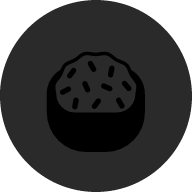
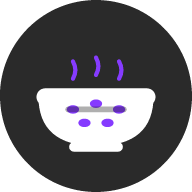
앱 아이콘 컬러 밥그릇으로 교체 (이모지 렌더링 → 직접 SVG 드로잉)

Changed region(s): [[0.1875, 0.25, 0.8125, 0.8125]]

diff --git a/dist/sw.js b/dist/sw.js
@@ -1,1 +1,1 @@
-if(!self.define){let e,i={};const n=(n,s)=>(n=new URL(n+".js",s).href,i[n]||new Promise(i=>{if("document"in self){const e=document.createElement("script");e.src=n,e.onload=i,document.head.appendChild(e)}else e=n,importScripts(n),i()}).then(()=>{let e=i[n];if(!e)throw new Error(`Module ${n} didn’t register its module`);return e}));self.define=(s,o)=>{const r=e||("document"in self?document.currentScript.src:"")||location.href;if(i[r])return;let c={};const d=e=>n(e,r),t={module:{uri:r},exports:c,require:d};i[r]=Promise.all(s.map(e=>t[e]||d(e))).then(e=>(o(...e),c))}}define(["./workbox-b51dd497"],function(e){"use strict";self.skipWaiting(),e.clientsClaim(),e.precacheAndRoute([{url:"registerSW.js",revision:"1872c500de691dce40960bb85481de07"},{url:"index.html",revision:"0a507d523330ee017b34ee645270d89d"},{url:"icons.svg",revision:"21c7473c592c67dc87223d49892c8f0a"},{url:"icon-512.png",revision:"1bbb7c726bf4a4f64a7d14fc8379c368"},{url:"icon-192.png",revision:"59e2622be535f53100d7d03103989f55"},{url:"favicon.svg",revision:"7e840862161341271697daa99a40d76b"},{url:"assets/index-lUIyWdLV.js",revision:null},{url:"assets/index-Co-6alOy.css",revision:null},{url:"favicon.svg",revision:"7e840862161341271697daa99a40d76b"},{url:"icon-192.png",revision:"59e2622be535f53100d7d03103989f55"},{url:"icon-512.png",revision:"1bbb7c726bf4a4f64a7d14fc8379c368"},{url:"manifest.webmanifest",revision:"2702644725b42623fc98ea071ec57bb0"}],{}),e.cleanupOutdatedCaches(),e.registerRoute(new e.NavigationRoute(e.createHandlerBoundToURL("index.html"))),e.registerRoute(/^https:\/\/openapi\.foodsafetykorea\.go\.kr\/.*/i,new e.NetworkFirst({cacheName:"cookrcp-api",plugins:[new e.ExpirationPlugin({maxAgeSeconds:86400})]}),"GET")});
+if(!self.define){let e,i={};const n=(n,s)=>(n=new URL(n+".js",s).href,i[n]||new Promise(i=>{if("document"in self){const e=document.createElement("script");e.src=n,e.onload=i,document.head.appendChild(e)}else e=n,importScripts(n),i()}).then(()=>{let e=i[n];if(!e)throw new Error(`Module ${n} didn’t register its module`);return e}));self.define=(s,o)=>{const r=e||("document"in self?document.currentScript.src:"")||location.href;if(i[r])return;let c={};const d=e=>n(e,r),t={module:{uri:r},exports:c,require:d};i[r]=Promise.all(s.map(e=>t[e]||d(e))).then(e=>(o(...e),c))}}define(["./workbox-b51dd497"],function(e){"use strict";self.skipWaiting(),e.clientsClaim(),e.precacheAndRoute([{url:"registerSW.js",revision:"1872c500de691dce40960bb85481de07"},{url:"index.html",revision:"0a507d523330ee017b34ee645270d89d"},{url:"icons.svg",revision:"21c7473c592c67dc87223d49892c8f0a"},{url:"icon-512.png",revision:"a832469ca6567c71ade0e8d7f1bbaf9a"},{url:"icon-192.png",revision:"07082d88ce2e52652d206d5057c053be"},{url:"favicon.svg",revision:"7e840862161341271697daa99a40d76b"},{url:"assets/index-lUIyWdLV.js",revision:null},{url:"assets/index-Co-6alOy.css",revision:null},{url:"favicon.svg",revision:"7e840862161341271697daa99a40d76b"},{url:"icon-192.png",revision:"07082d88ce2e52652d206d5057c053be"},{url:"icon-512.png",revision:"a832469ca6567c71ade0e8d7f1bbaf9a"},{url:"manifest.webmanifest",revision:"2702644725b42623fc98ea071ec57bb0"}],{}),e.cleanupOutdatedCaches(),e.registerRoute(new e.NavigationRoute(e.createHandlerBoundToURL("index.html"))),e.registerRoute(/^https:\/\/openapi\.foodsafetykorea\.go\.kr\/.*/i,new e.NetworkFirst({cacheName:"cookrcp-api",plugins:[new e.ExpirationPlugin({maxAgeSeconds:86400})]}),"GET")});
